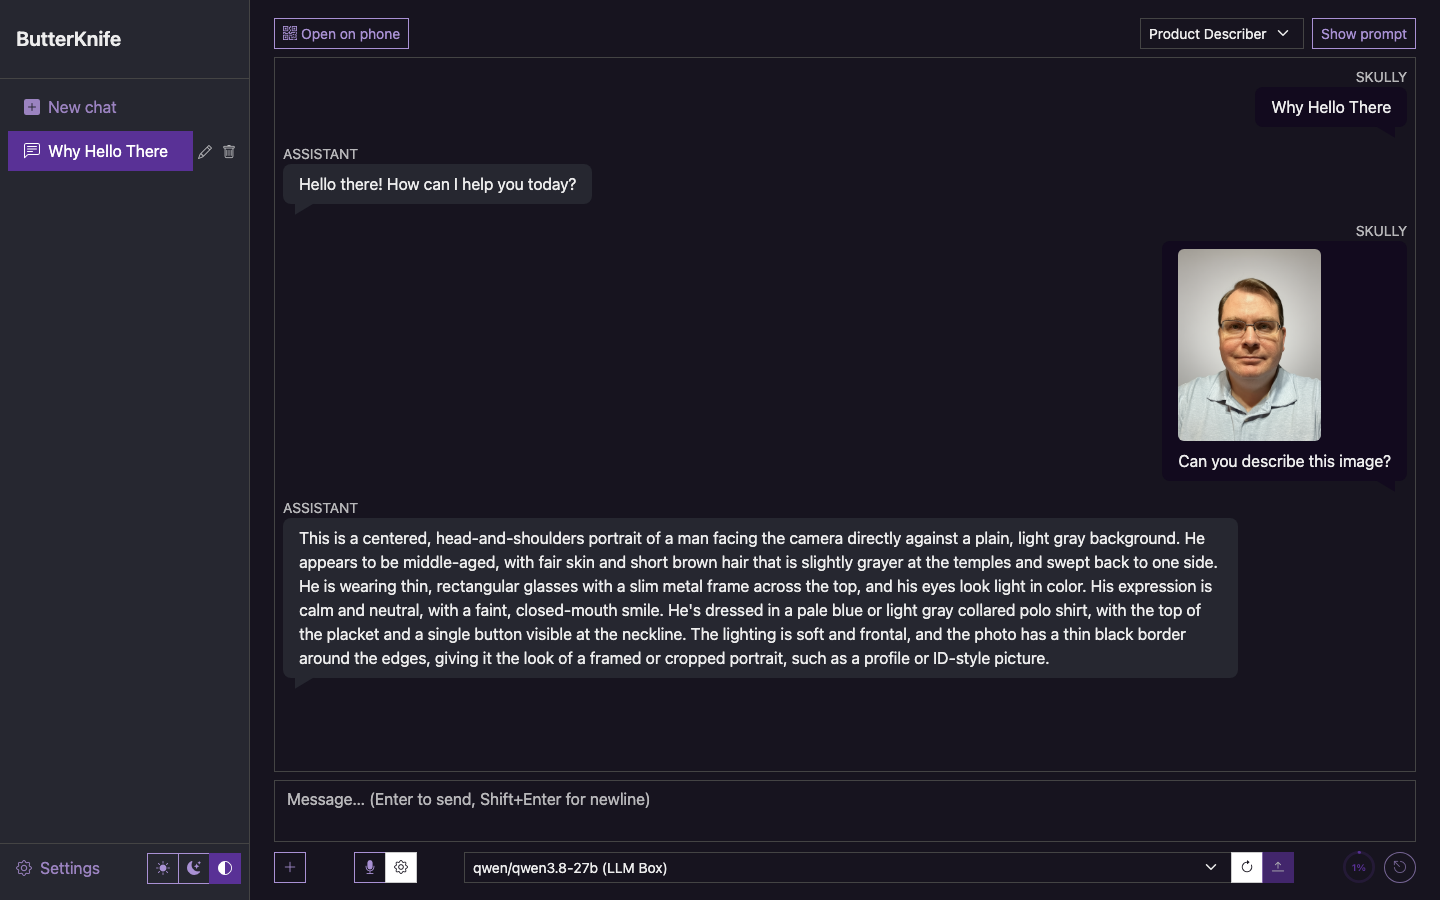
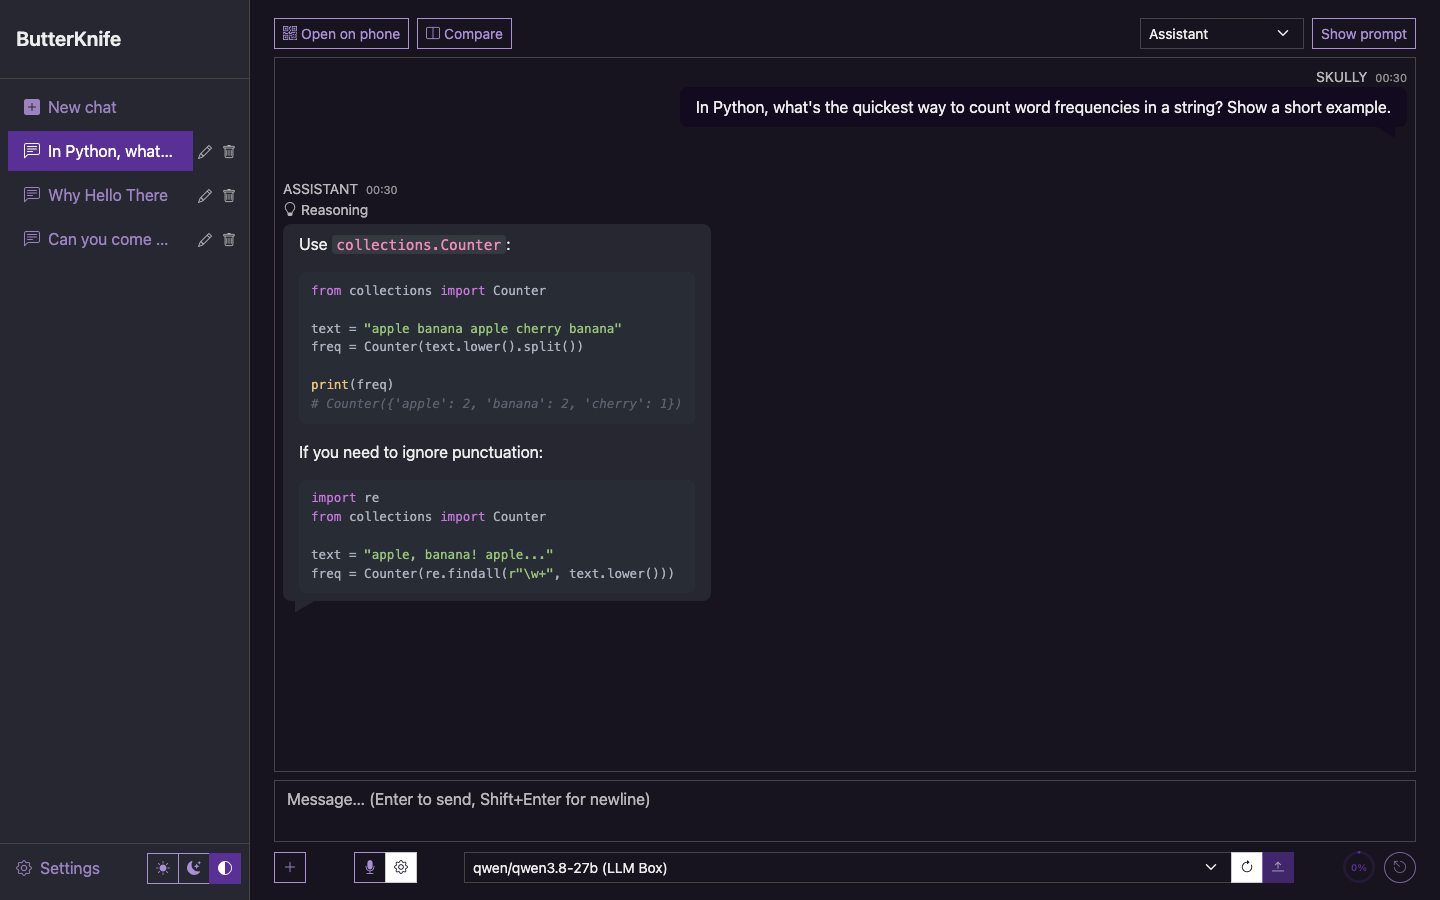
Refresh the README screenshot with a real reply and add a capture script
The screenshot now shows a chat against a LAN model with the current
transcript look (bubble tails, timestamps, folded reasoning, highlighted
code). tools/screenshot.mjs drives headless Chrome over the DevTools
protocol and waits before capturing, because Chrome's --screenshot fires
on page load, before the circuit connects and the model list arrives.

A reply loaded from the store labelled its folded reasoning "Thinking",
which reads as still running; it now says "Reasoning".

diff --git a/CLAUDE.md b/CLAUDE.md
@@ -111,3 +111,5 @@ python3 tools/stub-llm-server.py --port 11434 --delay 0.08
 ## Manual testing without a real LLM
 
 `.claude/launch.json` has four configurations: `butterknife` (`dotnet run` with the `http` launch profile, port 5175), `butterknife-lan` (port 5175 bound to `0.0.0.0`), `butterknife-fake-llm` (port 5176 so it can run beside a manually started instance, `--no-launch-profile`), which sets `ASPNETCORE_ENVIRONMENT=Development` and points the two seed backends at `http://127.0.0.1:11434` and `http://127.0.0.1:11434/v1` (only matters for an empty database; otherwise add connections under Settings → Connections), and `butterknife-test` (port 5177, same seeds, but `Database__ConnectionString=Data Source=data/test.db` so feature verification never touches the real database; delete `src/ButterKnife/data/test.db*` to start fresh). Pair the latter with `tools/stub-llm-server.py` (`python3 tools/stub-llm-server.py --port 11434 --delay 0.08`), which speaks Ollama (`/api/tags`, `/api/ps`, `/api/show` with `capabilities` — `fake-llama:8b` has `vision`, `fake-tiny:1b` does not —, `/api/chat`), OpenAI-compatible (`/v1/models`, `/v1/chat/completions`, LM Studio's `/api/v0/models/{id}` typing `fake-gpt-vision` as `vlm` and the rest `llm`), Anthropic (`/v1/messages`; `/v1/models` answers in Anthropic shape when `x-api-key` is present) and whisper.cpp (`/inference`; `/v1/audio/transcriptions` returns 404 on purpose) well enough to list models, stream a canned markdown reply with usage/timing fields, and transcribe; it logs the roles and image counts of every request. Every reply starts with "_model_ says:" so side-by-side comparisons can be told apart, streams a few thinking chunks first (Ollama `thinking`; OpenAI `reasoning_content`, or inline `<think>` tags for `fake-gpt`), and ends with inline math, a display equation and a mermaid block. A user message containing `[cut]` gets a reply cut off after six words with a `length` finish; a request whose last message is the assistant's (a Continue) gets a continuation. Raise `--delay` to watch streaming UI. Browser automation note: synthetic "Return" key presses may not reach the textarea's `keydown` listener; dispatch a `KeyboardEvent('keydown', {key: 'Enter'})` from JS instead when scripting the page.
+
+The README screenshot (`docs/screenshots/chat.png`, 1440 × 900, dark) is taken with `node tools/screenshot.mjs <chat url> docs/screenshots/chat.png` against a running instance: the script drives headless Chrome over the DevTools protocol and waits eight seconds before capturing, because Chrome's own `--screenshot` fires on page load, before the circuit connects and the model list arrives (the picker then reads "Loading models…"). Node 22+ (built-in `WebSocket`) and Google Chrome are required; `CHROME=` overrides the browser path.
